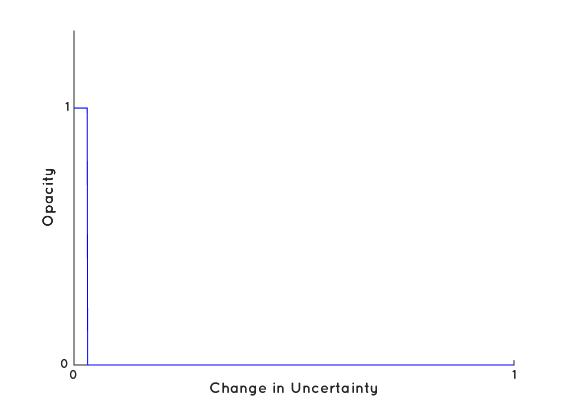
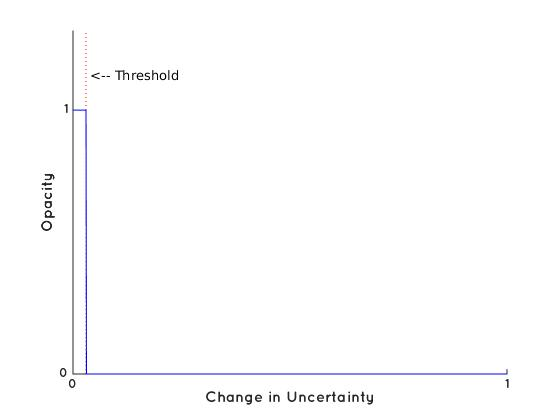
Added threshold label to graph.

diff --git a/Final-Report/images/thresholdvariation1fix.m b/Final-Report/images/thresholdvariation1fix.m
@@ -22,13 +22,13 @@ ax.YTick = [0, 1];
 hold on;
 
 % Vertical Lines
-% yL = get(gca,'YLim');
-% line([min min], yL, 'Color', 'r', 'LineStyle', ':');
+yL = get(gca,'YLim');
+line([min min], yL, 'Color', 'r', 'LineStyle', ':');
 % line([max max], yL, 'Color', 'r', 'LineStyle', ':');
 
 % Labels
 % text([min], [1.1], ['<---'], 'VerticalAlignment','bottom', 'HorizontalAlignment','left');
-% text([(min + max) / 2], [1.1], [' Threshold '], 'VerticalAlignment','bottom', 'HorizontalAlignment','center');
+text([min], [1.1], [' <-- Threshold '], 'VerticalAlignment','bottom', 'HorizontalAlignment','left');
 % text([max], [1.1], ['--->'], 'VerticalAlignment','bottom', 'HorizontalAlignment','right');
 
 % set(text([1], [1.0], ['Opaque'], 'VerticalAlignment','bottom', 'HorizontalAlignment','right'), 'FontAngle', 'italic');
